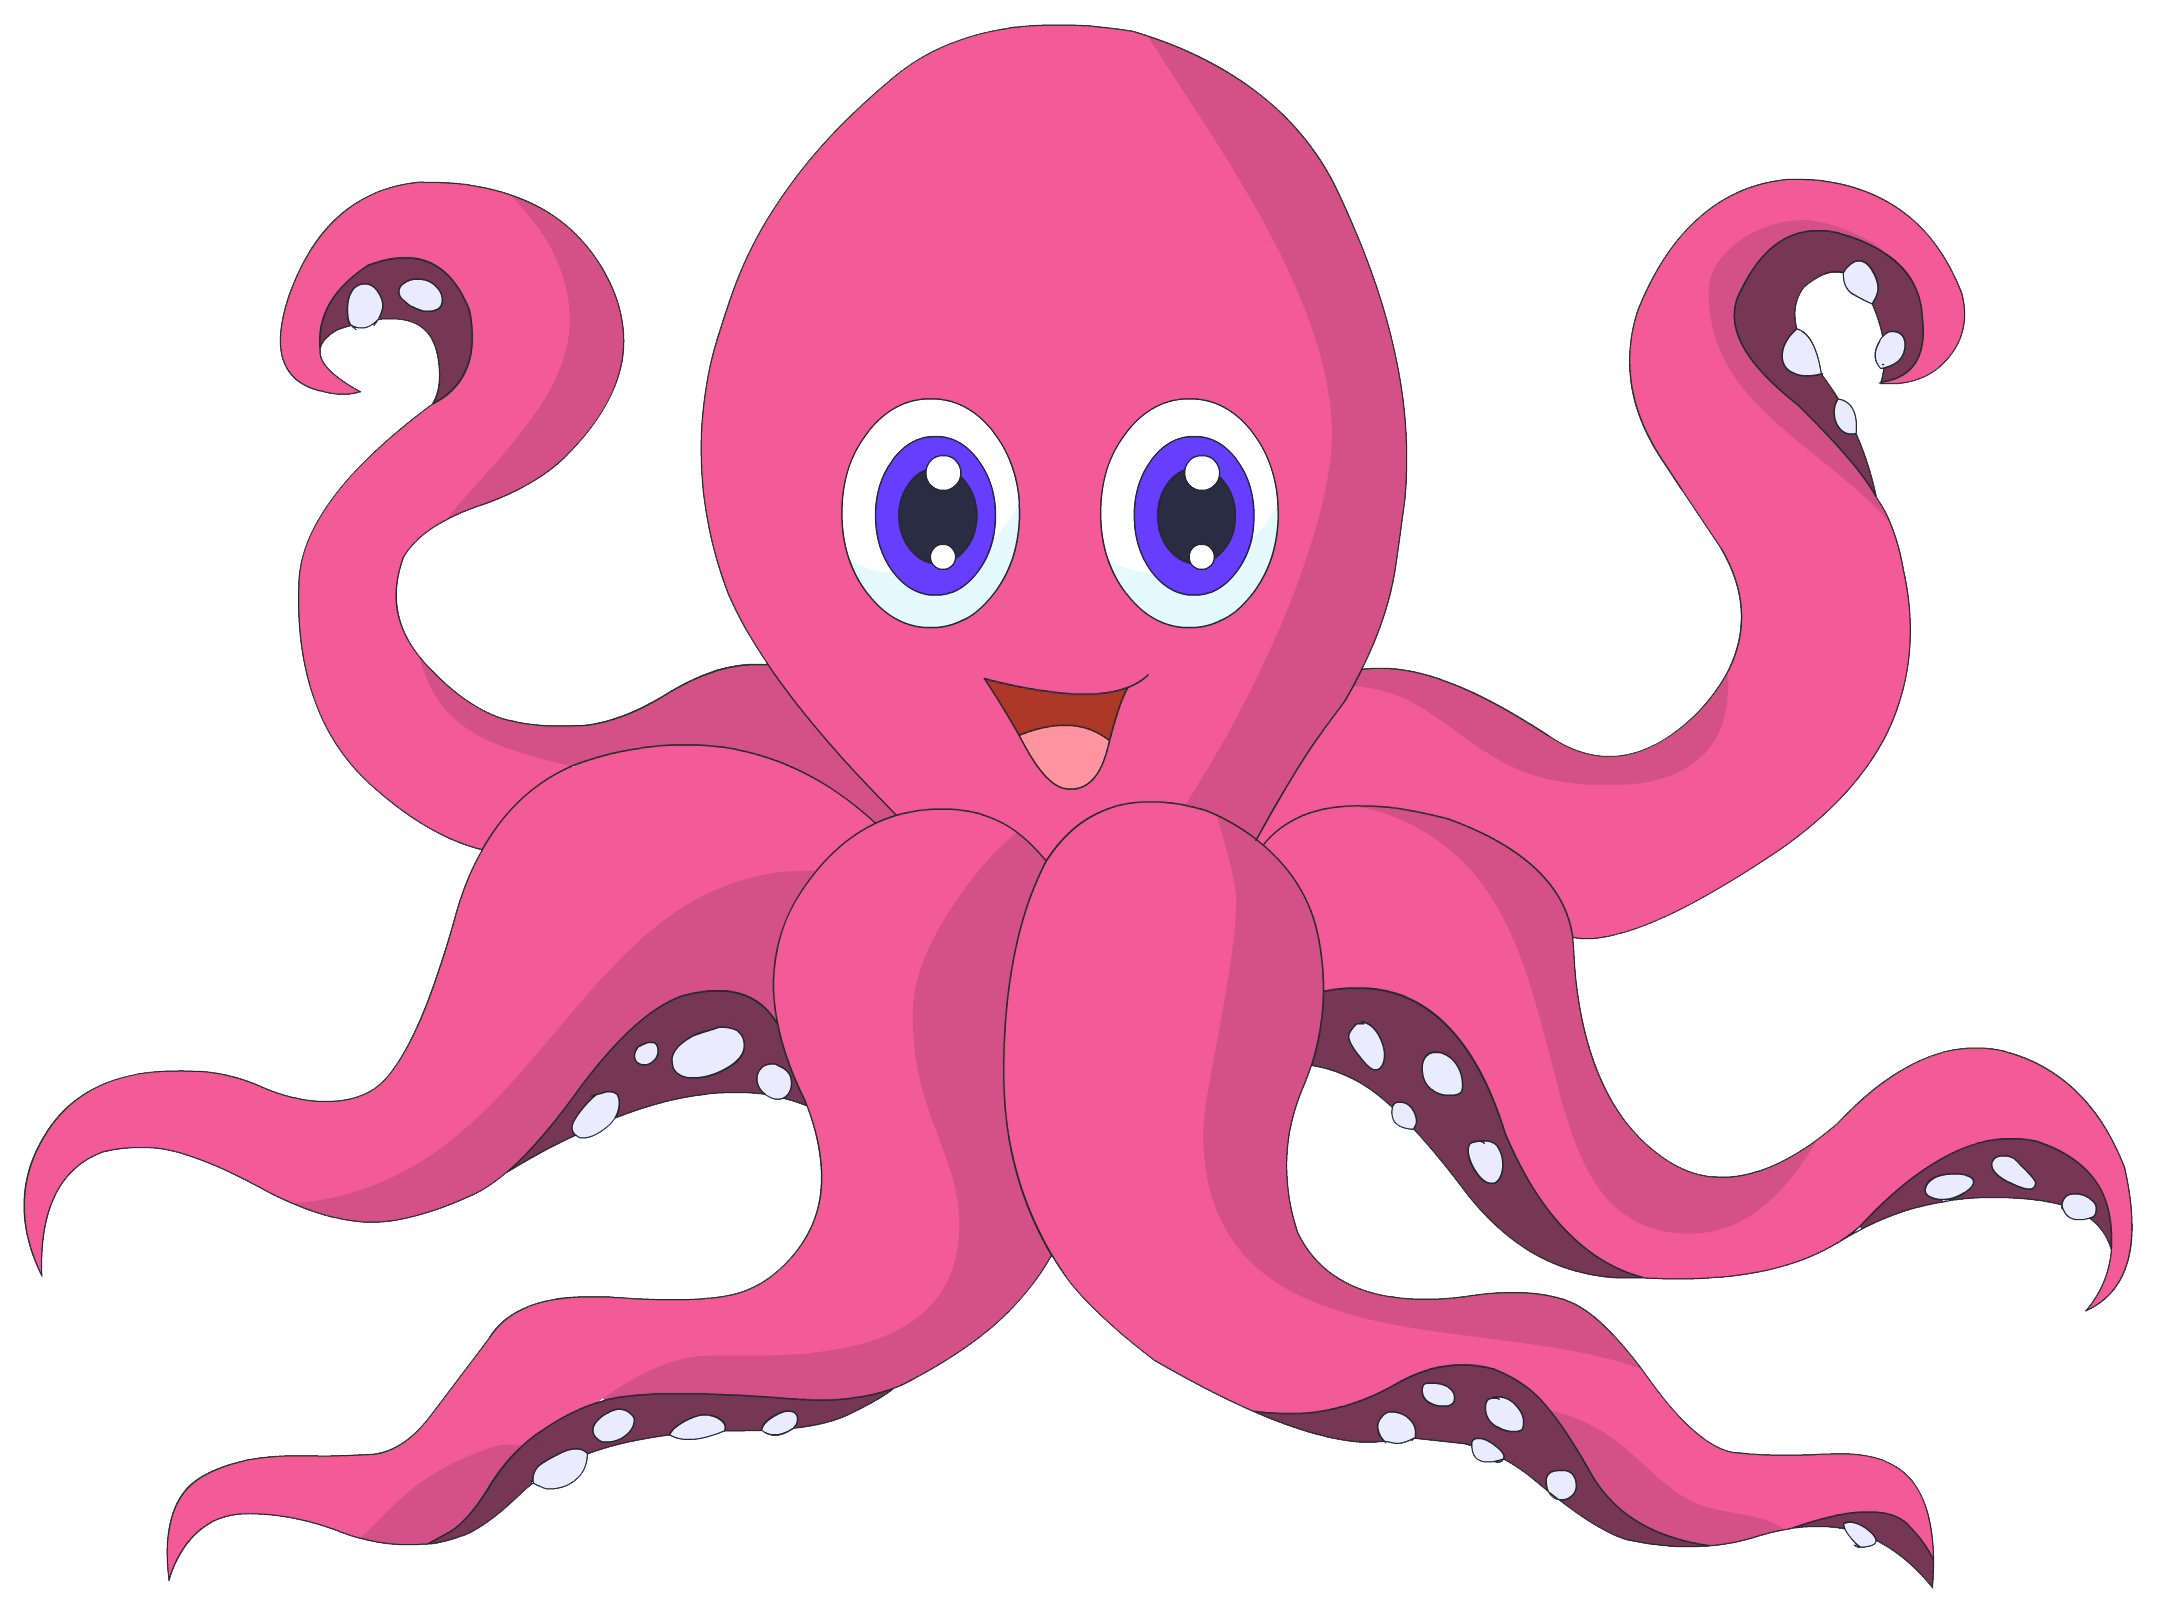
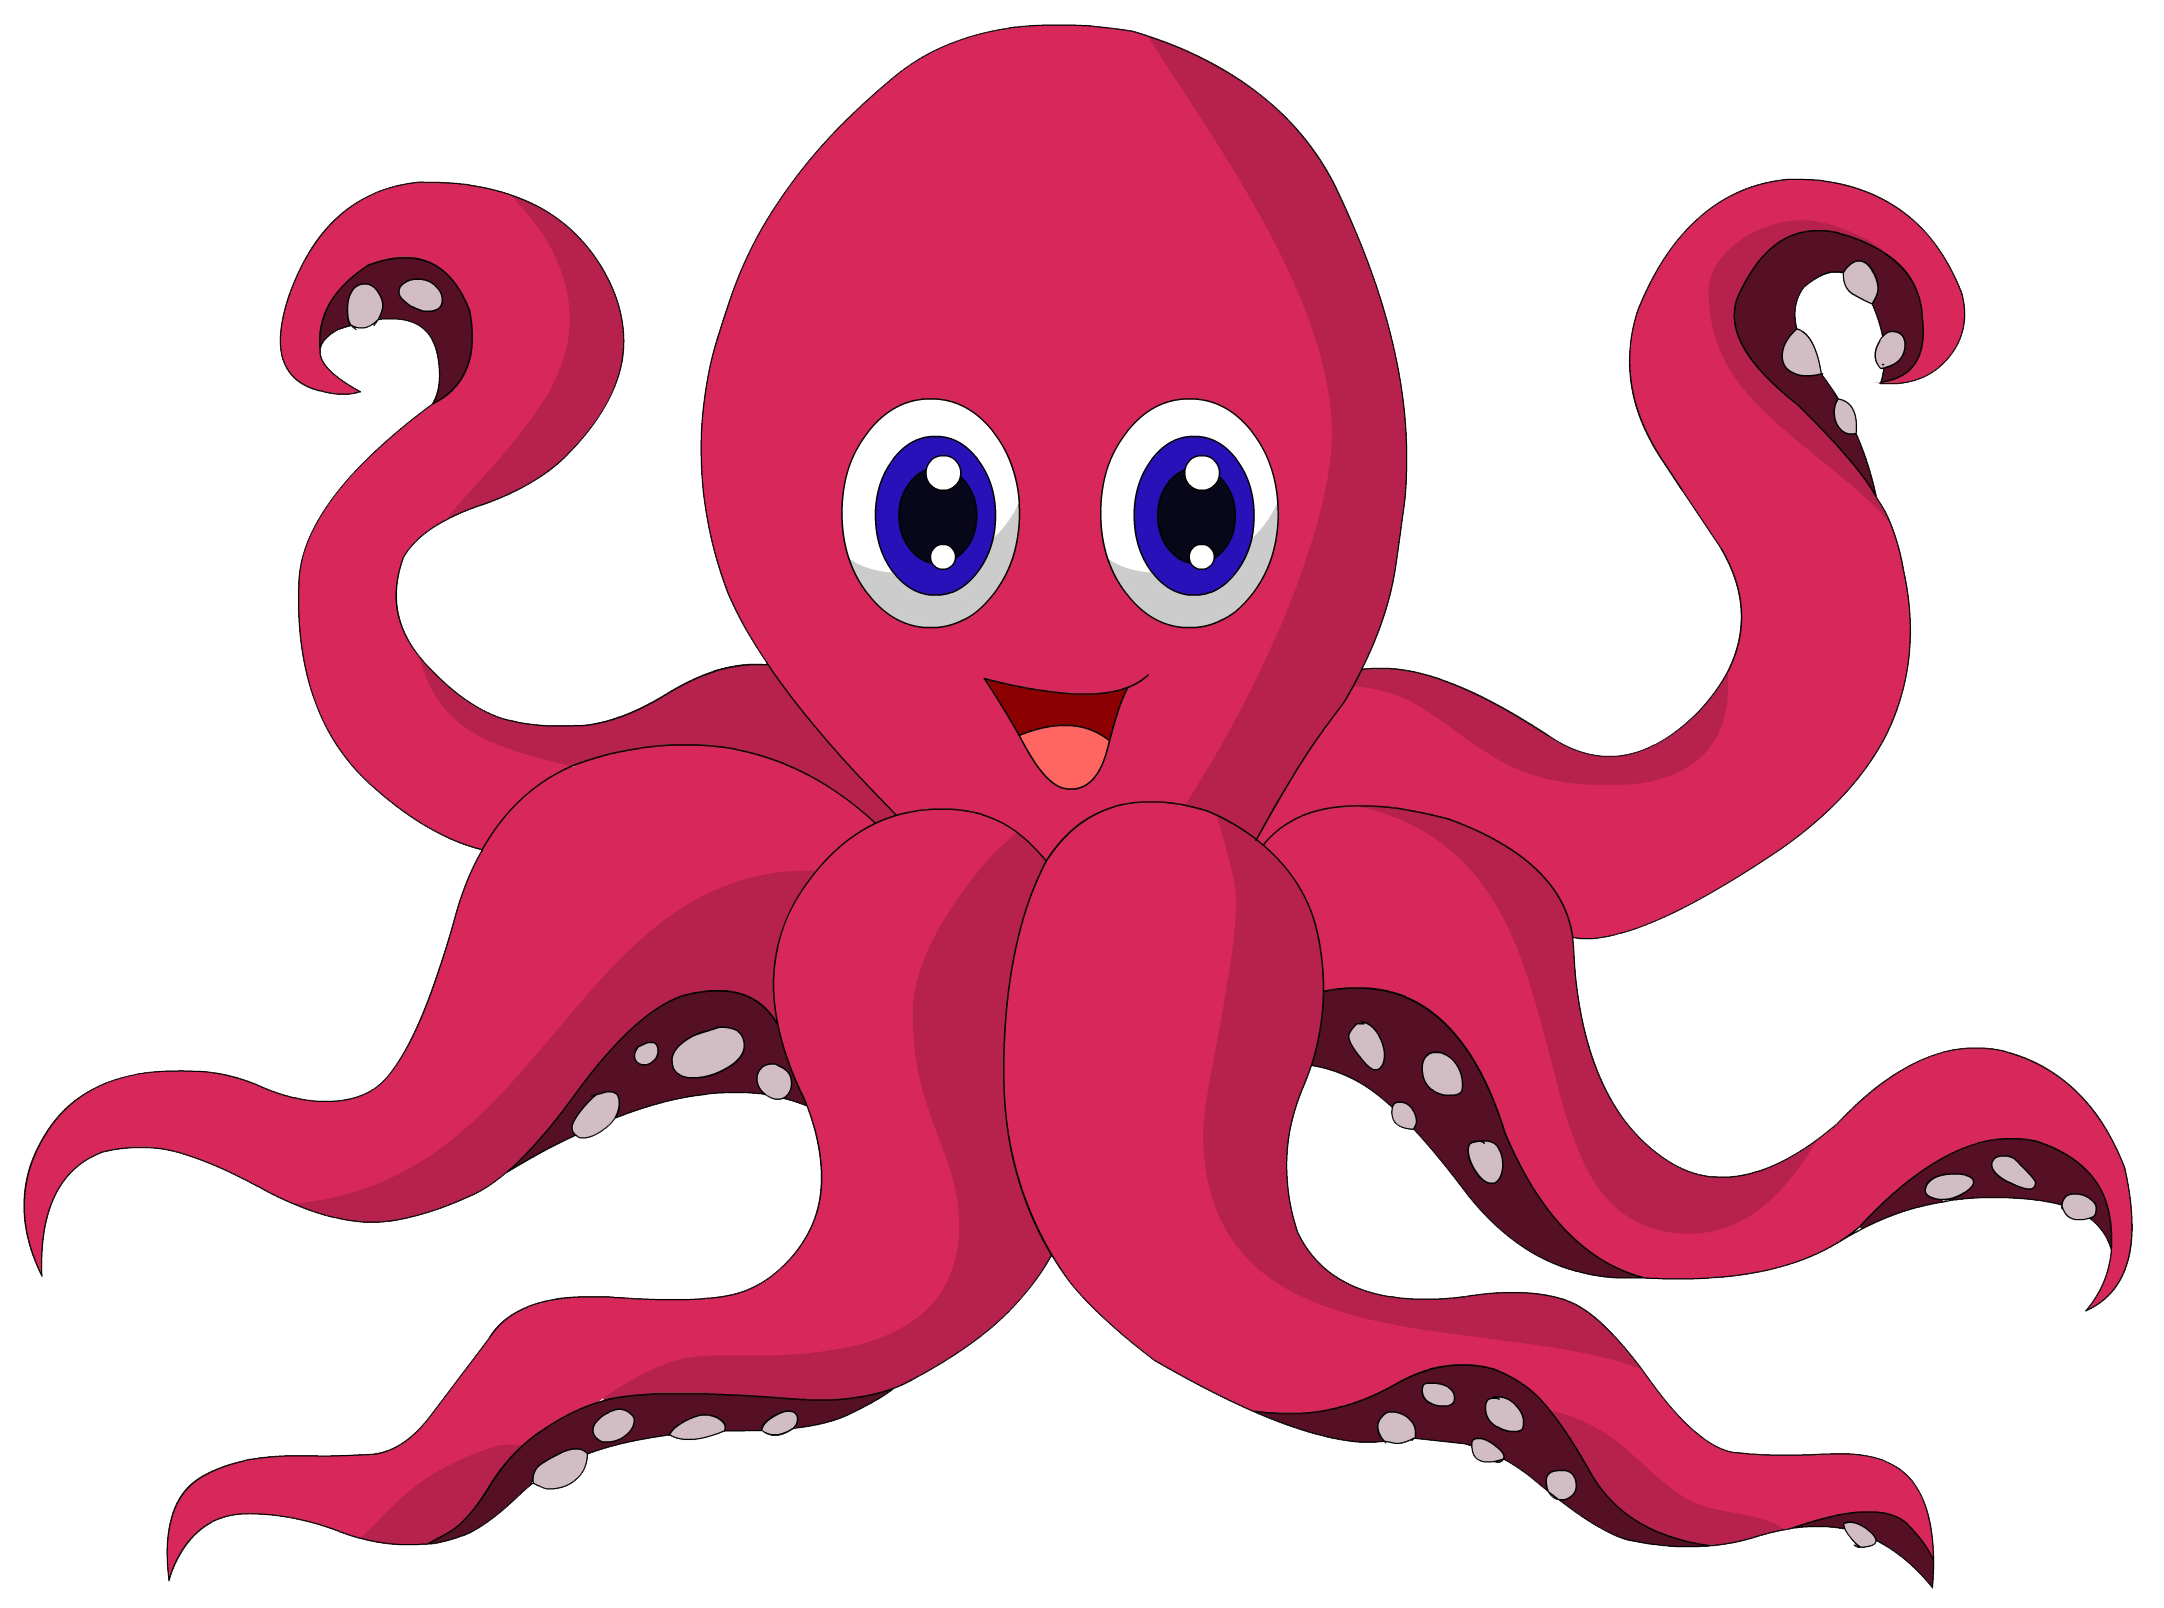
added color for not josiane octo

diff --git a/script.js b/script.js
@@ -6,14 +6,21 @@ const timeMax = 20;
 let numbOcto = 0;
 let timeCount = timeMax;
 let highScore = 0;
+let keyImageOcto = ['OctoCyan','OctoJaune','OctoBleu','OctoVert','OctoViolet','OctoRose'];
+let couleurOcto;
 
-function preload() {
-  this.load.image('octo', 'assets/image/octo.png');
+function preload()
+{
   this.load.image('fond', 'assets/image/fond.jpg');
   this.load.image('josiane', 'assets/image/josiane.png');
+  for(let i = 0; i<keyImageOcto.length; i++)
+  {
+    this.load.image(keyImageOcto[i],'assets/image/'+keyImageOcto[i]+'.png');   
+  }
 }
 
-function create() {
+function create()
+{
   this.score = 0;
   this.pause = false;
   this.r = this.input.keyboard.addKey(Phaser.Input.Keyboard.KeyCodes.R);
@@ -40,7 +47,8 @@ function create() {
       }
       else
       {
-        this.octoList.push(this.physics.add.image(x,y,'octo').setScale(0.05,0.05));
+        couleurOcto = keyImageOcto[RandInt(0,keyImageOcto.length)];
+        this.octoList.push(this.physics.add.image(x,y,couleurOcto).setScale(0.05,0.05));
       }
       currentid+=1;
     }
@@ -50,8 +58,8 @@ function create() {
   this.scoreTest = this.add.text(0,0,text,{fontfamily:"arial",fill:'#dddddd',stroke:'#000000',strokeThickness:5});
 }
 
-function update() {
-  
+function update()
+{
   var pointer = this.input.activePointer;
   const text = "Score: "+this.score+'\nTimer: '+timeCount+'s\nHigh score: '+ highScore;
   this.scoreTest.setText(text);
@@ -78,7 +86,7 @@ function update() {
     
   }
   
-  if(this.pause && this.r.isDown)
+  if(this.pause && (this.r.isDown || pointer.isDown))
   {
     this.scoreTest.setPosition(0,0).setAlign('left');
     this.score=0;
@@ -96,7 +104,9 @@ function update() {
         }
         else
         {
-          this.octoList.push(this.physics.add.image(x,y,'octo').setScale(0.05,0.05));
+          couleurOcto = keyImageOcto[RandInt(0,keyImageOcto.length)];
+          
+          this.octoList.push(this.physics.add.image(x,y,couleurOcto).setScale(0.05,0.05));
         }
         currentid+=1;
       }
@@ -137,7 +147,9 @@ function update() {
         }
         else
         {
-          this.octoList.push(this.physics.add.image(x,y,'octo').setScale(0.05,0.05));
+          couleurOcto = keyImageOcto[RandInt(0,keyImageOcto.length)];
+          
+          this.octoList.push(this.physics.add.image(x,y,couleurOcto).setScale(0.05,0.05));
         }
         currentid+=1;
       }

diff --git a/index.html b/index.html
@@ -3,7 +3,7 @@
   <head>
     <meta charset="utf-8">
     <meta name="viewport" content="width=device-width">
-    <title>repl.it</title>
+    <title>jeu 1</title>
     <link href="style.css" rel="stylesheet" type="text/css" />
     <link rel="shortcut icon" href="assets/image/bg.png">
     <script src="https://cdnjs.cloudflare.com/ajax/libs/phaser/3.16.2/phaser.min.js"></script>
